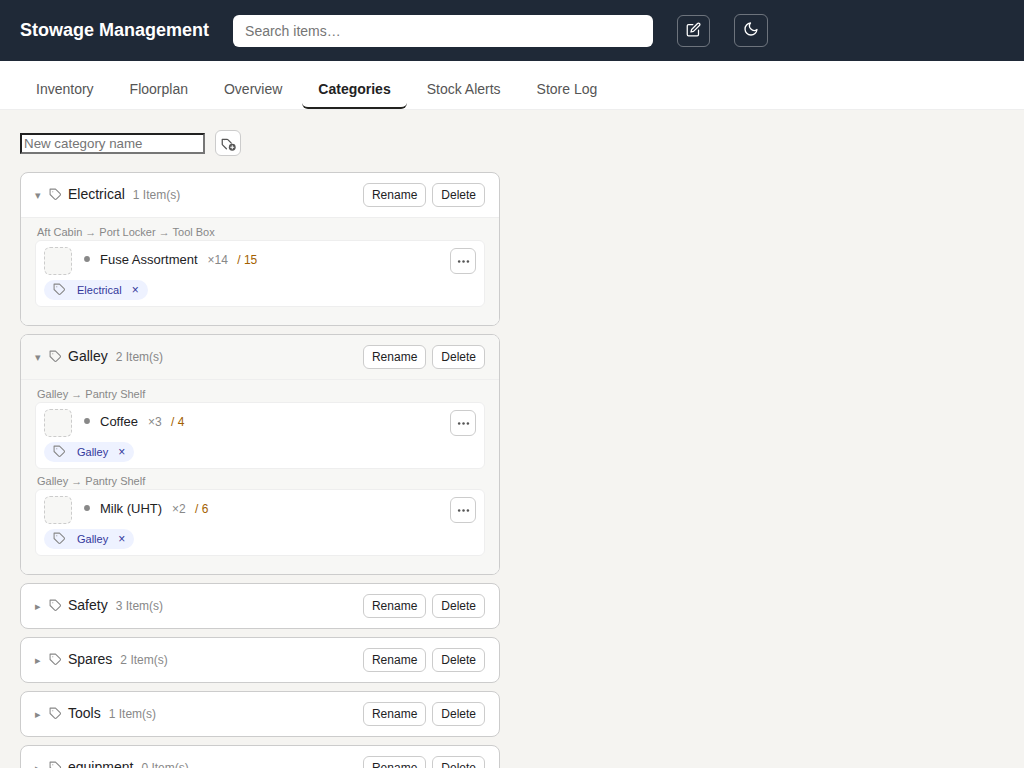
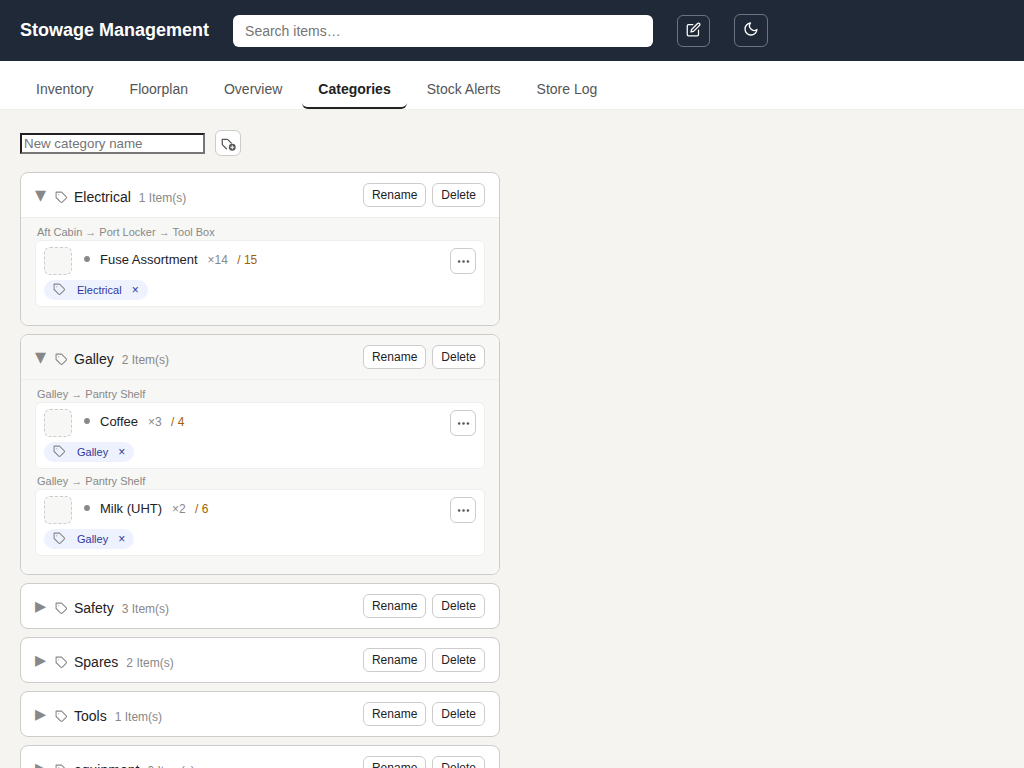
Refresh screenshots, add new one for Overview's Touch view
Re-captured all 6 docs/screenshots/*.png with the same seeded data as
before (realistic sailboat inventory + the real Legende 36 floorplan
SVG) -- the UI had changed since the originals were taken (Edit mode
toggle, no version number in header, editable Overview quantities,
Target Quantity column, larger fold arrows, etc). Added a new
overview-touch.png for the Overview tab's Touch view (added since the
last screenshot round), showing all 27 seeded items as big chips.

Verified via Playwright DOM checks before committing (27 real touch
chips present, correct names) rather than trusting the images blind.

- README: added the new screenshot to the Touch view's description.
- package.json: added overview-touch.png to signalk.screenshots,
  right after overview.png. Confirmed via npm pack --dry-run that all
  7 screenshots are actually included in the published tarball.

diff --git a/README.md b/README.md
@@ -248,8 +248,11 @@ all. This is unrelated to the Floorplan tab's own "Edit"/"Save" toggle
   direct location, and path.
 - Clicking a row jumps to the Floorplan tab and makes the area blink, same
   as search (if it's mapped).
-- **Touch view** (toggle next to "Table" in the toolbar): a
-  touchscreen-friendly alternative — every item as a big square chip
+- **Touch view** (toggle next to "Table" in the toolbar):
+
+  ![Overview tab, Touch view](docs/screenshots/overview-touch.png)
+
+  A touchscreen-friendly alternative — every item as a big square chip
   (thumbnail, name, direct location) with its own always-visible −/+
   buttons for quick stock adjustment, no click-to-reveal step (a split
   item's buttons are disabled, same "use Split instead" reasoning as the

diff --git a/CHANGELOG.md b/CHANGELOG.md
@@ -10,6 +10,14 @@ was renamed to `signalk-stowage-mgmt`.
 
 ## [Unreleased]
 
+### Changed
+
+- Refreshed all 6 screenshots in `docs/screenshots/`, and added a new
+  one for the Overview tab's Touch view — the header/UI had changed
+  since the originals were taken. Both added to the README's Usage
+  section and registered under `signalk.screenshots` in
+  `package.json`.
+
 ## [0.9.0] - 2026-07-26
 
 ### Added
